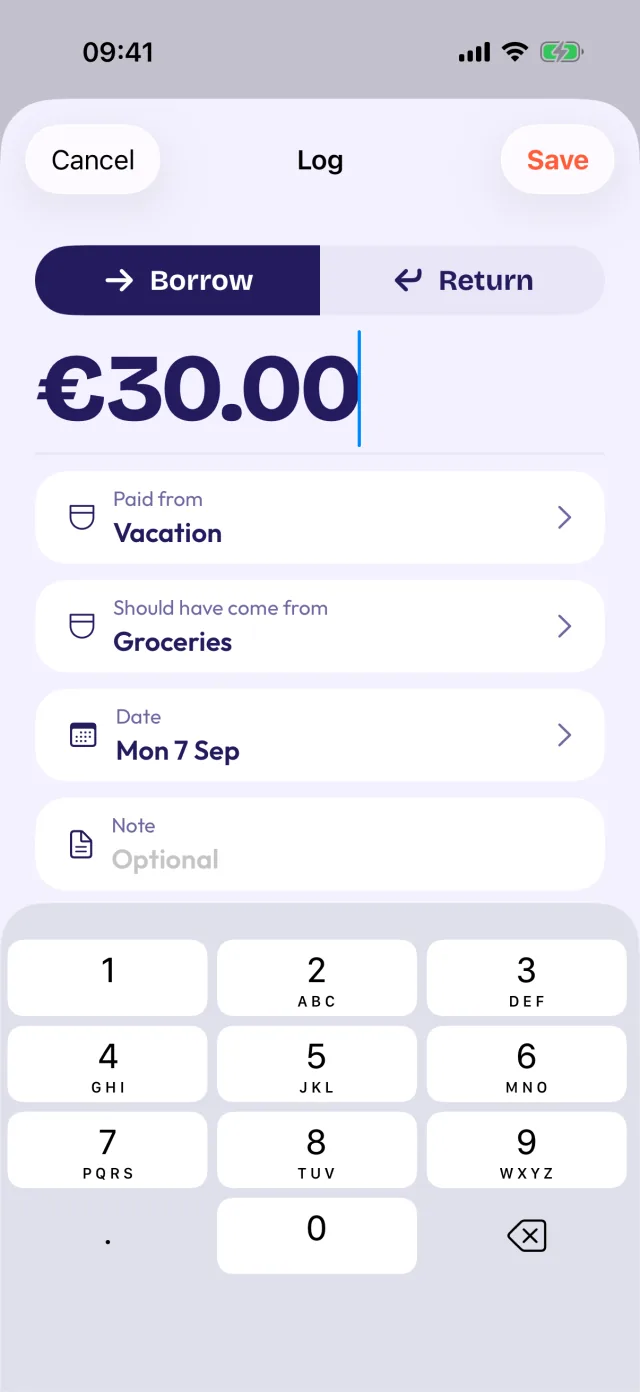
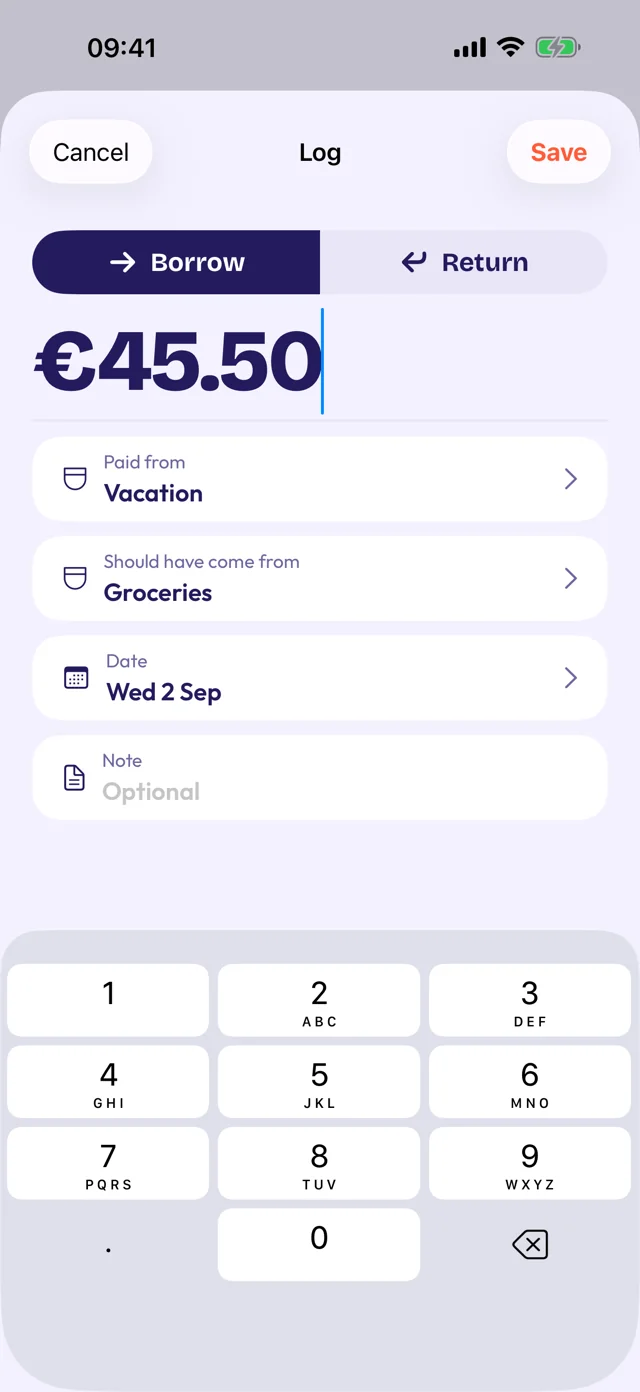
fix(landing): the Log capture and beat copy tell the same story as Owed and the widget [repocket-site-l60.17]
The Log capture is retaken at 45.50, dated Wed 2 Sep, so beat 1 agrees with Owed (Groceries owes Vacation 45.50 since Wed 2 Sep), the widget (5 days) and beat 3 (You transfer 45.50). Beat 1's day label becomes Wednesday and beat 2's label becomes Five days later, EN and DE.

Capture method: app repo origin/main 026788c, the testMarketingLogScreenshot flow from LocalizationScreenshotUITests under the RepocketLocalizationScreenshots scheme, with the frozen instant moved to 2026-09-02T09:41Z and the amount set to 4550 in a throwaway copy (nothing committed to the app repo). Simulator: iPhone 17 Pro Max on iOS 26.5, light appearance, status bar overridden to 9:41. Exported at 1320x2868, resized to 640x1392, cwebp -q 85.

Bead: repocket-site-l60.17

diff --git a/index.html b/index.html
@@ -108,14 +108,14 @@ footer{padding:40px 0 60px;border-top:1px solid rgba(36,27,94,.1);font-size:14px
  <div class="sec-h reveal"><h2><span data-l="en">It starts at the checkout.</span><span data-l="de">Es beginnt an der Kasse.</span></h2></div>
  <div class="story" style="margin-top:30px">
   <div>
-   <div class="beat reveal" data-scr="log"><span class="k"><span data-l="en">Monday, 09:41</span><span data-l="de">Montag, 09:41</span></span><h3><span data-l="en">The groceries pocket is empty. The card in your hand is Vacation.</span><span data-l="de">Die Lebensmittel-Tasche ist leer. Die Karte in deiner Hand ist Urlaub.</span></h3><p><span data-l="en">€30 at the till. You'll move it back later. You open Repocket on the way to the car and log it in one sentence: paid from Vacation, should have come from Groceries.</span><span data-l="de">30 € an der Kasse. Du buchst es später zurück. Auf dem Weg zum Auto trägst du es in einem Satz ein: bezahlt aus Urlaub, hätte aus Lebensmittel kommen sollen.</span></p></div>
-   <div class="beat reveal" data-scr="home"><span class="k"><span data-l="en">Two weeks later</span><span data-l="de">Zwei Wochen später</span></span><h3><span data-l="en">Nobody else wrote it down.</span><span data-l="de">Sonst hat es niemand notiert.</span></h3><p><span data-l="en">The bank saw one card and one shop. Your pockets look fine and they are lying. Repocket shows who owes whom, how much, since when. No balances, no budgets: just the debts between your own pockets.</span><span data-l="de">Die Bank hat eine Karte und einen Laden gesehen. Deine Taschen sehen in Ordnung aus und lügen. Repocket zeigt, wer wem was schuldet, wie viel, seit wann. Keine Salden, keine Budgets: nur die Schulden zwischen deinen eigenen Taschen.</span></p></div>
+   <div class="beat reveal" data-scr="log"><span class="k"><span data-l="en">Wednesday, 09:41</span><span data-l="de">Mittwoch, 09:41</span></span><h3><span data-l="en">The groceries pocket is empty. The card in your hand is Vacation.</span><span data-l="de">Die Lebensmittel-Tasche ist leer. Die Karte in deiner Hand ist Urlaub.</span></h3><p><span data-l="en">€45.50 at the till. You'll move it back later. You open Repocket on the way to the car and log it in one sentence: paid from Vacation, should have come from Groceries.</span><span data-l="de">45,50 € an der Kasse. Du buchst es später zurück. Auf dem Weg zum Auto trägst du es in einem Satz ein: bezahlt aus Urlaub, hätte aus Lebensmittel kommen sollen.</span></p></div>
+   <div class="beat reveal" data-scr="home"><span class="k"><span data-l="en">Five days later</span><span data-l="de">Fünf Tage später</span></span><h3><span data-l="en">Nobody else wrote it down.</span><span data-l="de">Sonst hat es niemand notiert.</span></h3><p><span data-l="en">The bank saw one card and one shop. Your pockets look fine and they are lying. Repocket shows who owes whom, how much, since when. No balances, no budgets: just the debts between your own pockets.</span><span data-l="de">Die Bank hat eine Karte und einen Laden gesehen. Deine Taschen sehen in Ordnung aus und lügen. Repocket zeigt, wer wem was schuldet, wie viel, seit wann. Keine Salden, keine Budgets: nur die Schulden zwischen deinen eigenen Taschen.</span></p></div>
    <div class="beat reveal" data-scr="widget"><span class="k"><span data-l="en">Payday</span><span data-l="de">Zahltag</span></span><h3><span data-l="en">Move the money back. Tap Settled.</span><span data-l="de">Geld zurückbuchen. Auf Erledigt tippen.</span></h3><p><span data-l="en">You transfer €45.50 at the bank. On the widget, one tap marks it settled. The row disappears.</span><span data-l="de">Du überweist 45,50 € bei der Bank. Im Widget ein Tipp, und die Schuld ist ausgeglichen. Die Zeile verschwindet.</span></p></div>
    <div class="beat reveal" data-scr="square"><span class="k"><span data-l="en">Month end</span><span data-l="de">Monatsende</span></span><h3><span data-l="en">Everything is square.</span><span data-l="de">Alles ausgeglichen.</span></h3><p><span data-l="en">That is the whole app. It does one thing the bank cannot see, and gets out of the way.</span><span data-l="de">Das ist die ganze App. Sie tut das eine, was die Bank nicht sehen kann, und geht dann aus dem Weg.</span></p></div>
   </div>
   <div class="sticky"><div class="phone" id="story-phone" data-scr="log">
    <div class="sb" aria-hidden="true"><i></i></div>
-   <img class="scr s-log" data-l="en" src="assets/screens/en-GB/log.webp" width="640" height="1392" decoding="async" loading="lazy" alt="Repocket's Log sheet in Borrow mode: €30.00, paid from Vacation, should have come from Groceries, dated Mon 7 Sep, with the number pad open."><img class="scr s-log" data-l="de" src="assets/screens/en-GB/log.webp" width="640" height="1392" decoding="async" loading="lazy" alt="Das Eintragen-Blatt in Repocket im Modus Leihe: 30,00 €, bezahlt von Vacation, hätte kommen sollen von Groceries, am Mo. 7. Sep., mit offenem Ziffernblock.">
+   <img class="scr s-log" data-l="en" src="assets/screens/en-GB/log.webp" width="640" height="1392" decoding="async" loading="lazy" alt="Repocket's Log sheet in Borrow mode: €45.50, paid from Vacation, should have come from Groceries, dated Wed 2 Sep, with the number pad open."><img class="scr s-log" data-l="de" src="assets/screens/en-GB/log.webp" width="640" height="1392" decoding="async" loading="lazy" alt="Das Eintragen-Blatt in Repocket im Modus Leihe: 45,50 €, bezahlt von Vacation, hätte kommen sollen von Groceries, am Mi. 2. Sep., mit offenem Ziffernblock.">
    <img class="scr s-home" data-l="en" src="assets/screens/en-GB/home.webp" width="640" height="1392" decoding="async" loading="lazy" alt="Repocket's Owed screen: €165.50 across 2 open debts. Groceries owes Vacation €45.50 since Wed 2 Sep, and Kids owes Home €120.00 since Fri 28 Aug."><img class="scr s-home" data-l="de" src="assets/screens/en-GB/home.webp" width="640" height="1392" decoding="async" loading="lazy" alt="Der Bildschirm Geschuldet in Repocket: 165,50 € in 2 offenen Schulden. Groceries schuldet Vacation 45,50 € seit Mi. 2. Sep., und Kids schuldet Home 120,00 € seit Fr. 28. Aug.">
    <div class="scr s-widget"><div class="wgt"><img data-l="en" src="assets/screens/en-GB/widget-large.webp" width="560" height="587" decoding="async" loading="lazy" alt="Repocket's Owed widget: €165.50 to return, Kids to Home €120.00 for 10 days and Groceries to Vacation €45.50 for 5 days, each with a Settled checkmark button."><img data-l="de" src="assets/screens/en-GB/widget-large.webp" width="560" height="587" decoding="async" loading="lazy" alt="Das Repocket-Widget Geschuldet: 165,50 € zurückzulegen, Kids an Home 120,00 € seit 10 Tagen und Groceries an Vacation 45,50 € seit 5 Tagen, jeweils mit einem Häkchen zum Ausgleichen."></div></div>
    <img class="scr s-square" data-l="en" src="assets/screens/en-GB/all-square.webp" width="640" height="1392" decoding="async" loading="lazy" alt="Repocket's Owed screen: Everything is square."><img class="scr s-square" data-l="de" src="assets/screens/en-GB/all-square.webp" width="640" height="1392" decoding="async" loading="lazy" alt="Der Bildschirm Geschuldet in Repocket: Alles ausgeglichen.">
